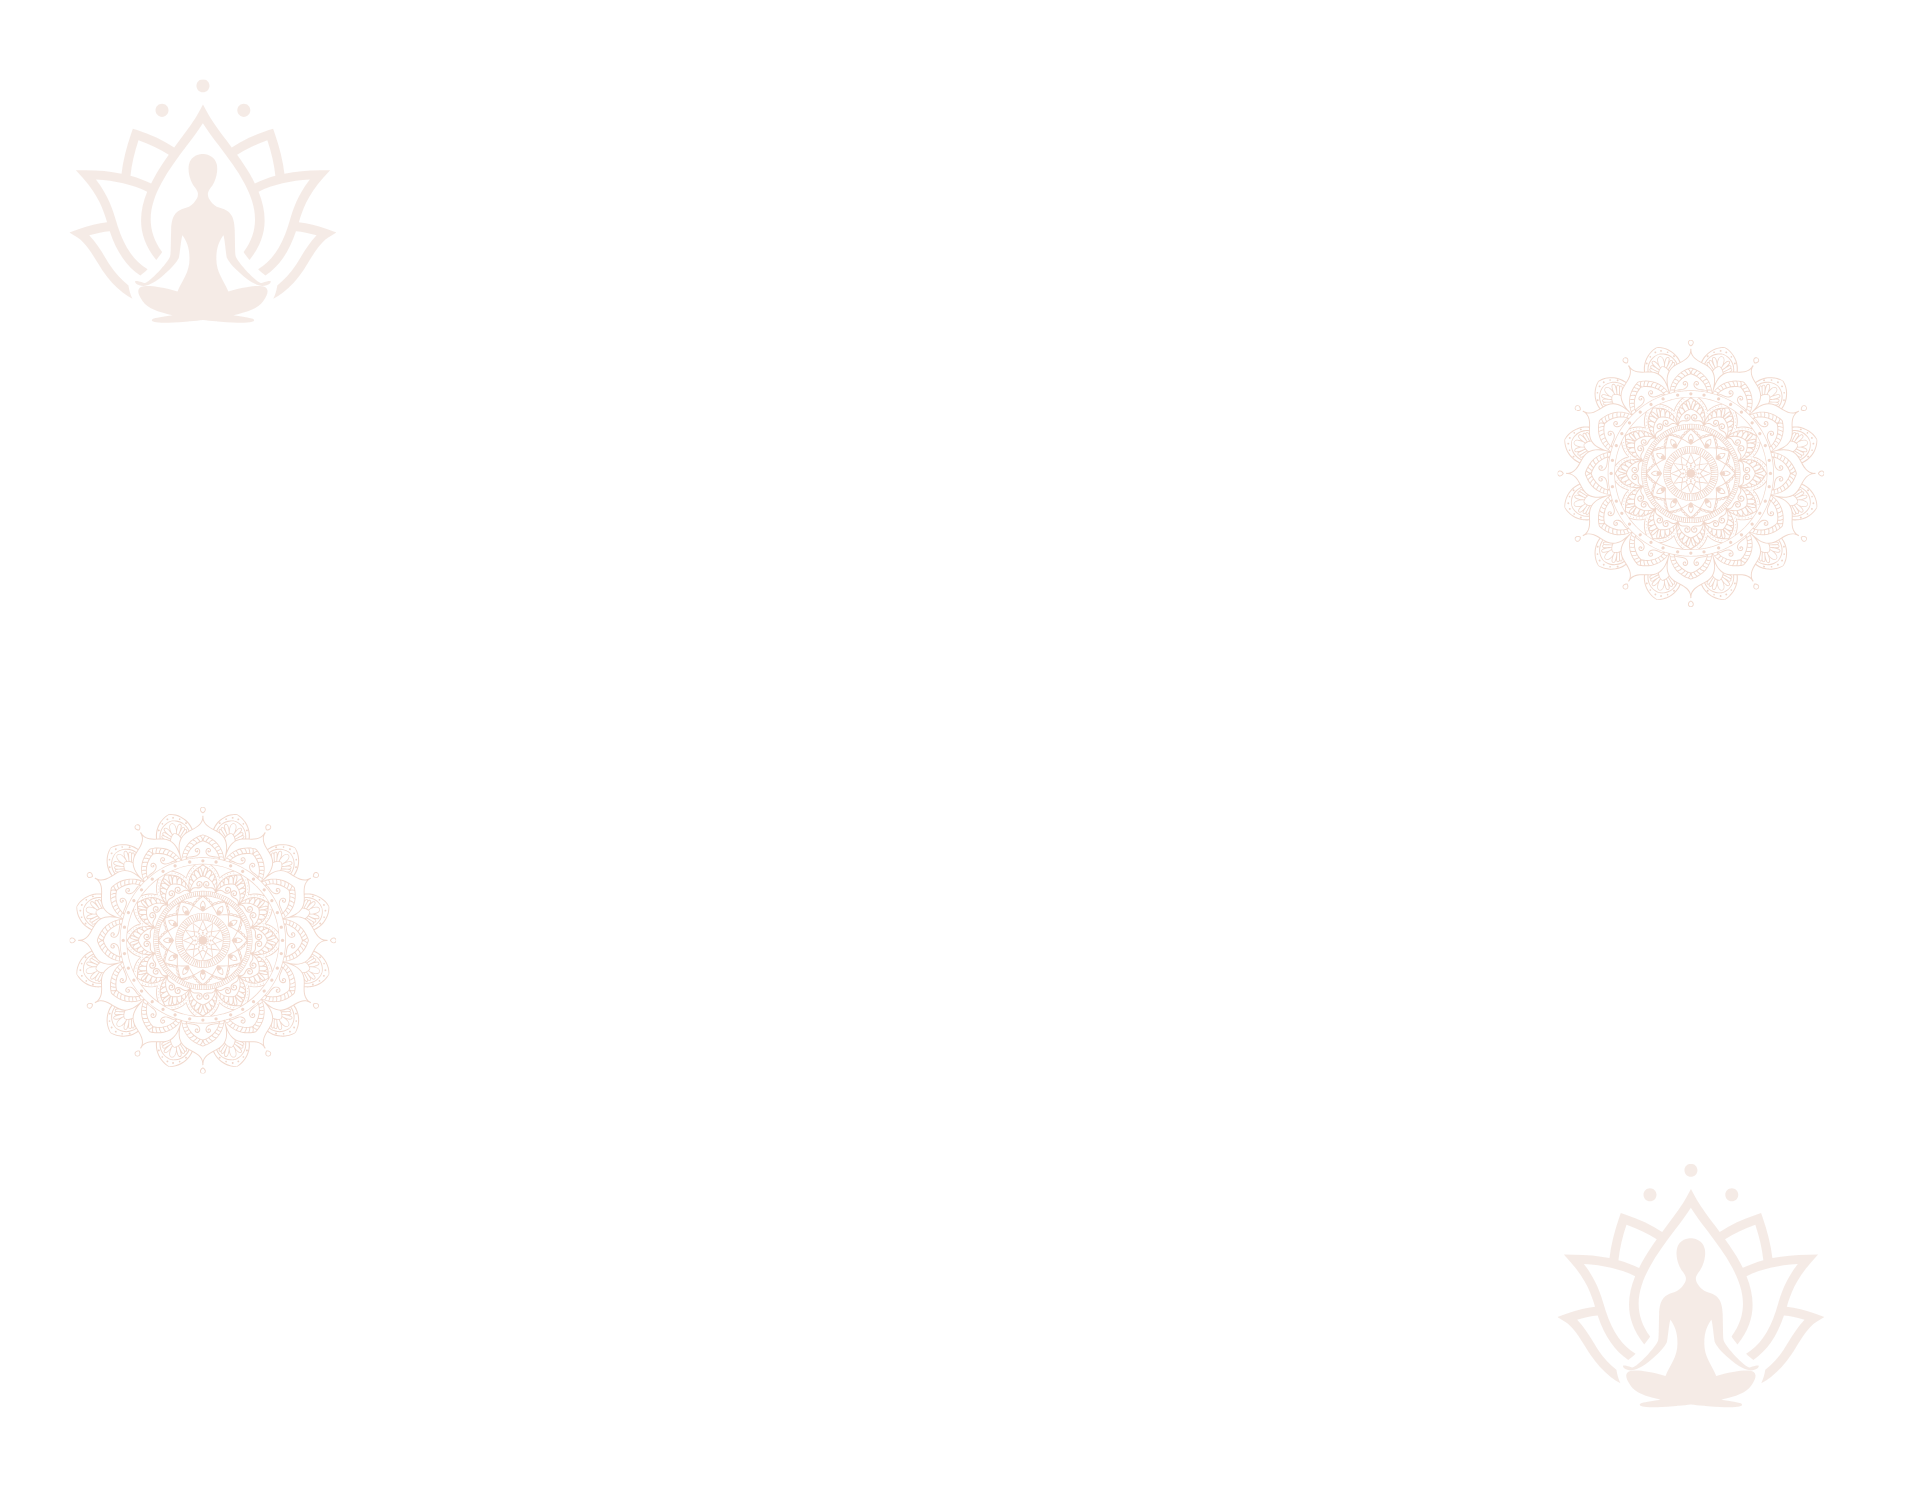
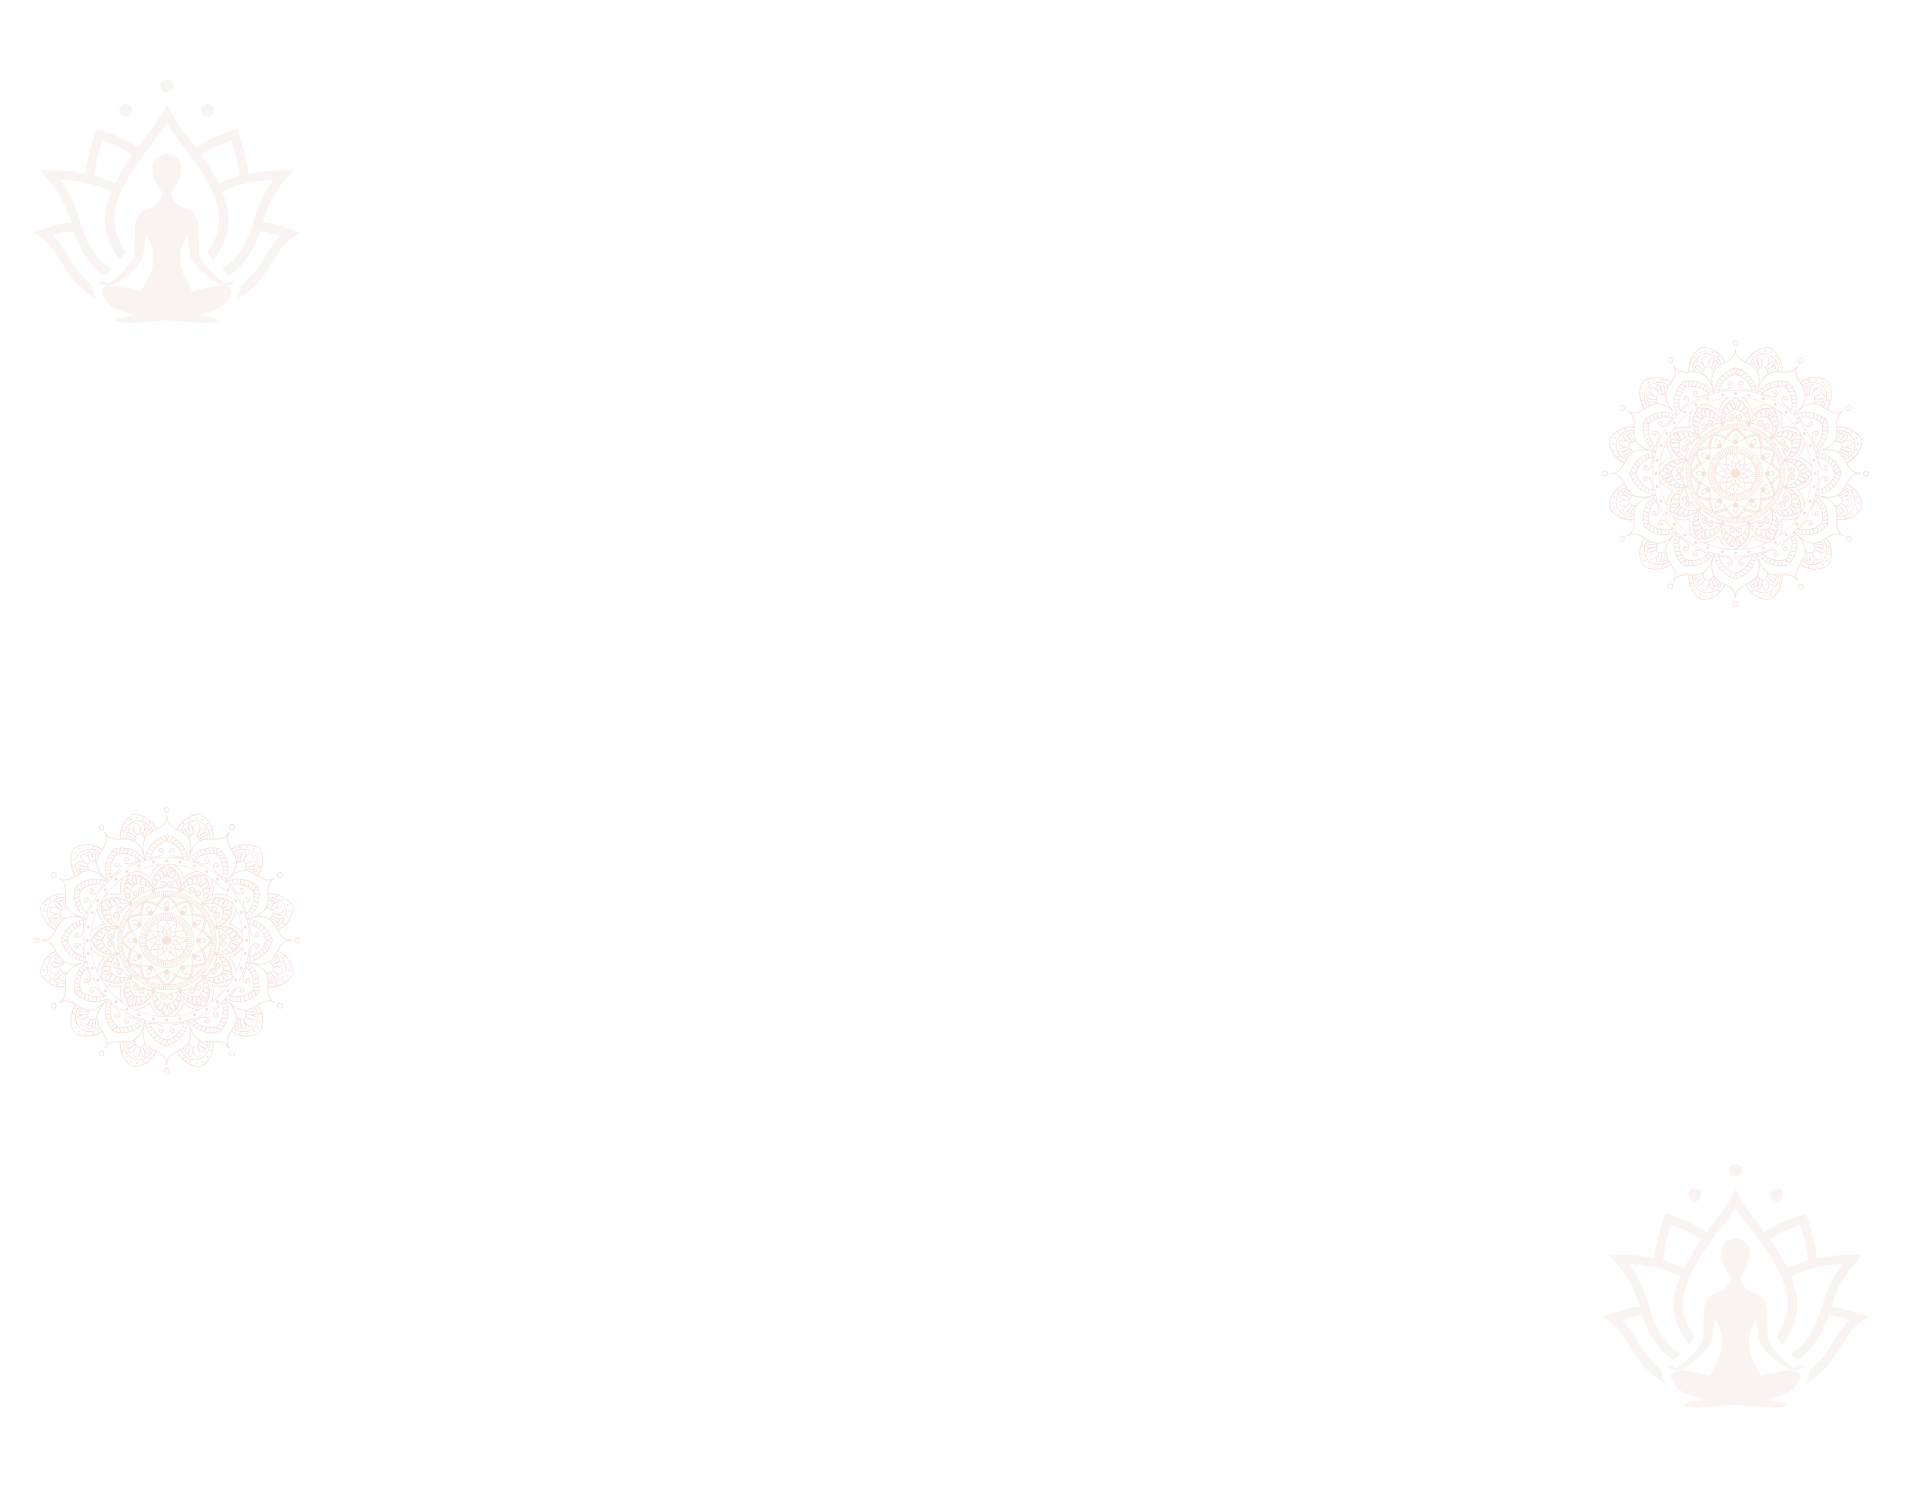
background image change

diff --git a/assets/style/100-hour-yoga-teacher-training-in-rishikesh/Hundredhouryoga.module.css b/assets/style/100-hour-yoga-teacher-training-in-rishikesh/Hundredhouryoga.module.css
@@ -237,7 +237,6 @@
 
 .icSub {
   font-family: var(--font-body);           /* Lato */
-  font-style: italic;
   font-size: 0.85rem;
   color: var(--ink-soft);
   line-height: 1.3;
@@ -285,7 +284,6 @@
 
 .icFeeFrom {
   font-family: var(--font-body);           /* Lato */
-  font-style: italic;
   font-size: 1.1rem;
   color: var(--ink-soft);
 }
@@ -625,7 +623,6 @@
 
 .letYourSoul {
   font-family: var(--font-display);        /* Playfair Display italic */
-  font-style: italic;
   font-size: clamp(1.4rem, 4vw, 2.6rem);
   font-weight: 500;
   color: rgba(255, 240, 210, 0.95);
@@ -679,7 +676,6 @@
 
 .syllabusModuleTitle {
   font-family: var(--font-display);        /* Playfair Display */
-  font-style: italic;
   font-size: clamp(0.95rem, 1.5vw, 1.1rem);
   color: var(--saffron);
   margin: 0 0 0.3rem;
@@ -897,7 +893,6 @@
 .psbSecSub {
   text-align: center;
   font-family: var(--font-body);           /* Lato */
-  font-style: italic;
   font-size: 0.9rem;
   color: var(--ink-soft);
   margin-bottom: 1.4rem;
@@ -1008,7 +1003,6 @@
   text-align: center;
   font-family: var(--font-body);           /* Lato */
   color: var(--saffron);
-  font-style: italic;
 }
 
 .psbBc {
@@ -1151,7 +1145,6 @@
 
 .psbRpCourse {
   font-family: var(--font-display);        /* Playfair Display */
-  font-style: italic;
   font-size: 1.15rem;
   color: #fff3d2;
   line-height: 1.3;
@@ -1218,7 +1211,6 @@
 .psbPcLbl {
   font-family: var(--font-body);           /* Lato */
   font-size: 0.75rem;
-  font-style: italic;
   color: var(--ink-soft);
   margin-top: 2px;
 }
@@ -1342,7 +1334,6 @@
 
 .psbSelHint {
   font-family: var(--font-body);           /* Lato */
-  font-style: italic;
   font-size: 0.82rem;
   color: #a08050;
 }
@@ -1406,7 +1397,6 @@
   font-family: var(--font-body);           /* Lato */
   font-size: 0.82rem;
   color: var(--ink-soft);
-  font-style: italic;
   margin-top: 0.7rem;
 }
 

diff --git a/assets/style/Home/Yogacoursesteachers.module.css b/assets/style/Home/Yogacoursesteachers.module.css
@@ -421,7 +421,7 @@
 }
 
 .whoDecorInner {
-  background: linear-gradient(145deg, #fff8f0 0%, #ffecd8 100%);
+  background: linear-gradient(145deg, #fffcf9 0%, #fff6ed 100%);
   border: 1px solid rgba(224, 123, 0, 0.22);
   border-radius: 14px;
   padding: 2rem 1.6rem;
@@ -523,7 +523,7 @@
 .teachersSection {
   position: relative;
   background: var(--parchment);
-  background-image: url("../../images/backgroundimage/1905x1740.png");
+  background-image: url("../../images/backgroundimage/1905x1576.png");
   overflow: hidden;
 }
 
@@ -555,7 +555,7 @@
   align-items: center;
   margin-bottom: 3.5rem;
   padding: 2.5rem;
-  background: linear-gradient(135deg, var(--cream-white) 0%, #fdf0dc 100%);
+  background: linear-gradient(135deg, #fffdfa 0%, #fffcf7 100%);
   border: 1px solid var(--gold-border);
   border-radius: 14px;
   box-shadow: 0 8px 40px var(--shadow-warm);
@@ -1162,7 +1162,7 @@
 ════════════════════════════════════════════════ */
 @media (max-width: 1850px) {
   .teachersSection {
-    background-image: url("../../images/1850x1715.svg");
+    background-image: url("../../images/backgroundimage/1850x1618.png");
     background-size: contain;
   }
 }
@@ -1243,7 +1243,7 @@
 ════════════════════════════════════════════════ */
 @media (max-width: 767px) {
   .teachersSection {
-    background-image: url('../../images/1850x1715.png') !important;
+    background-image: url('../../images/backgroundimage/767x2423.png') !important;
   }
 }
 

diff --git a/assets/style/Home/Aymfullpage.module.css b/assets/style/Home/Aymfullpage.module.css
@@ -116,7 +116,7 @@
   align-items: center;
   margin: 2rem 0;
   padding: 2rem;
-  background: linear-gradient(135deg, #fff9f2 0%, #fdf0dc 100%);
+  background: linear-gradient(135deg, #fffdfa 0%, #fffcf6 100%);
   border: 1px solid rgba(224, 123, 0, 0.2);
   border-radius: 10px;
   box-shadow: 0 4px 20px var(--shadow-warm);
@@ -321,7 +321,7 @@
 ════════════════════════════════════════════════ */
 .campusSection {
   background: var(--parchment);
-  background-image: url("../../images/1905X2360.png");
+  background-image: url("../../images/backgroundimage/1905X6108.png");
   position: relative;
   background-size: contain;
 }
@@ -536,7 +536,7 @@
 }
 
 .ctaContent {
-  background: linear-gradient(135deg, #ffead1 0%, #efd1ad 40%, #e5b57c 70%, #ffbd6d 100%);
+  background: linear-gradient(135deg, #fff5ea 0%, #ffedd7 40%, #efdeca 70%, #e2d7c9 100%);
   position: relative;
   overflow: hidden;
   padding: clamp(3rem, 6vw, 5rem) clamp(1.5rem, 5vw, 4rem);
@@ -624,7 +624,6 @@
 .masterQuoteBlock {
   text-align: center;
   padding: clamp(2rem, 4vw, 3.5rem) clamp(1.5rem, 5vw, 4rem);
-  background-image: url("../../images/svgbanner-01.svg");
   position: relative;
   overflow: hidden;
   color: #000000;

diff --git a/assets/style/Home/Ourmission.module.css b/assets/style/Home/Ourmission.module.css
@@ -27,11 +27,6 @@
 .missionSection::before {
   content: '';
   position: absolute;
-  inset: 0;
-  background:
-    radial-gradient(ellipse at 15% 10%, rgba(196, 106, 0, 0.06) 0%, transparent 50%),
-    radial-gradient(ellipse at 85% 90%, rgba(92, 45, 0, 0.07) 0%, transparent 50%),
-    radial-gradient(ellipse at 50% 50%, rgba(245, 184, 0, 0.03) 0%, transparent 70%);
   pointer-events: none;
   z-index: 0;
 }
@@ -84,7 +79,7 @@
   margin: 0 auto;
   border: 1.5px solid var(--border-color);
   border-radius: 16px;
-  background: linear-gradient(145deg, #fff9f0 0%, var(--parchment-mid) 50%, #fff4e6 100%);
+  background: linear-gradient(145deg, #fffdf9 0%, #fffbf4 50%, #fff9f2 100%);
   box-shadow:
     0 2px 0 rgba(196, 106, 0, 0.12),
     0 20px 60px rgba(92, 45, 0, 0.12),

diff --git a/assets/style/Footer.module.css b/assets/style/Footer.module.css
@@ -13,7 +13,7 @@
 
 /* ── Shell ── */
 .footer {
-  background-image: url('../images/footerbackground.png');
+  background-image: url('../images/footer2.png');
   background-size: cover;
   background-position: center center;
   background-repeat: no-repeat;

diff --git a/assets/style/Home/Hometestimonialssection.module.css b/assets/style/Home/Hometestimonialssection.module.css
@@ -5,7 +5,7 @@
    ================================================================ */
 .section {
   position: relative;
-  background: #fdf6ec;
+  background: #f7f2eb;
   overflow: hidden;
 }
 

diff --git a/assets/style/Home/Howtoreach.module.css b/assets/style/Home/Howtoreach.module.css
@@ -277,7 +277,6 @@
 }
 
 .iconCirclePickup {
-  background: linear-gradient(135deg, #3d1d00, #5c2e00);
   box-shadow: 0 4px 14px rgba(61, 29, 0, 0.35);
 }
 
